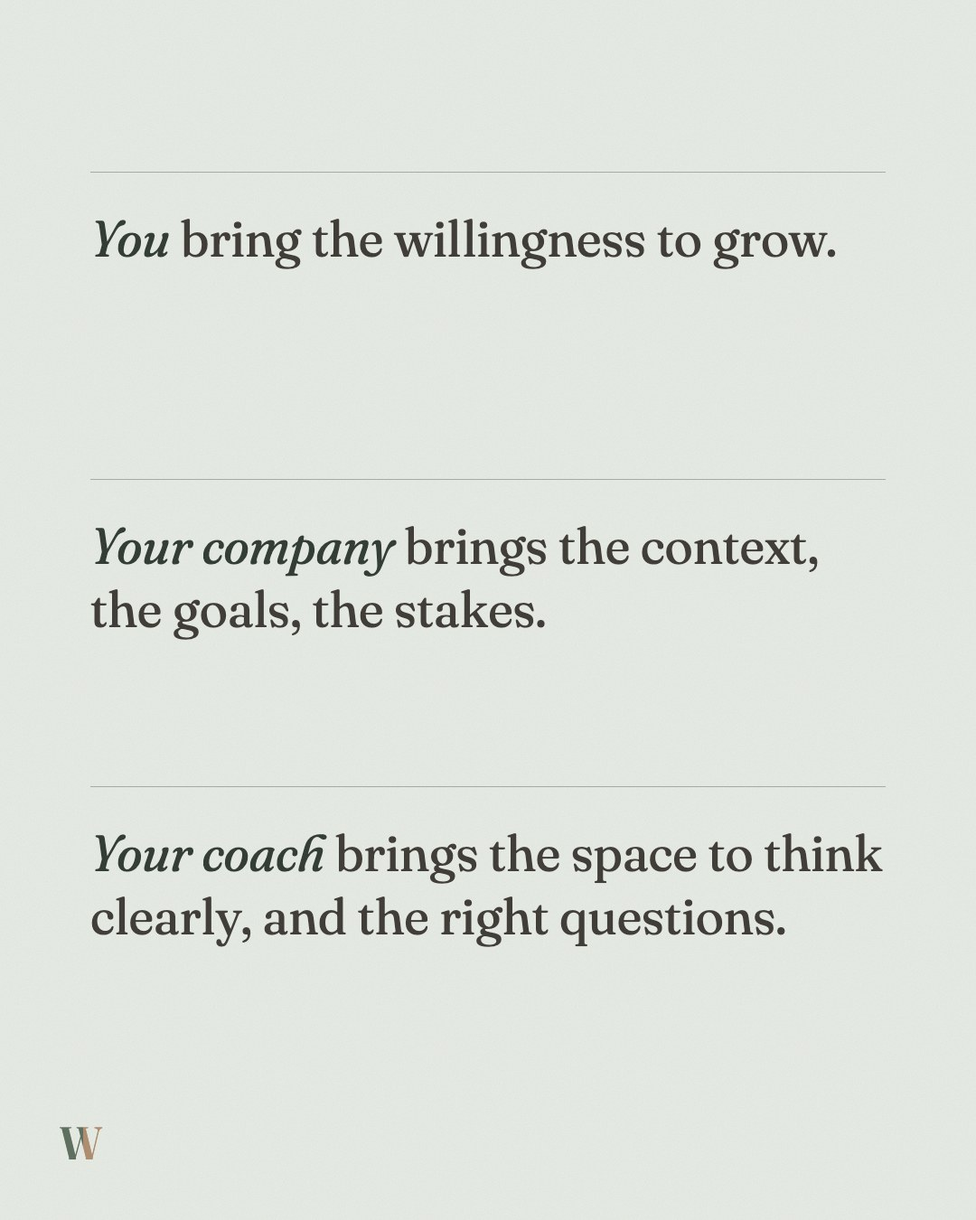
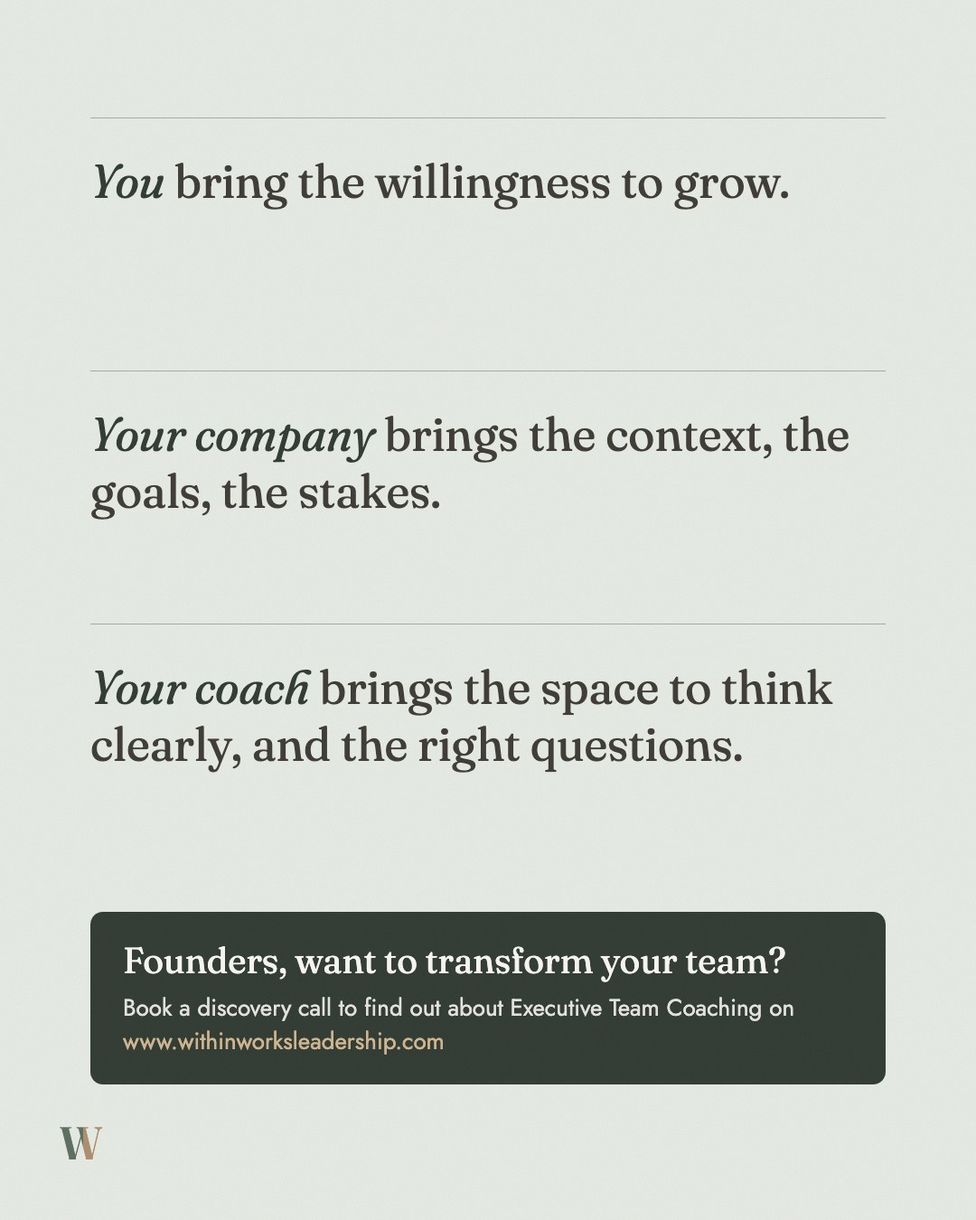
CTAs: founders CTA on 25 Nov, discovery call line added to every upcoming caption without one

Changed region(s): [[0.0917, 0.6844, 0.9167, 0.9022], [0.0917, 0.3422, 0.8861, 0.6533], [0.0917, 0.1244, 0.8556, 0.2178]]

diff --git a/content/index.html b/content/index.html
@@ -84,8 +84,12 @@ Book a discovery call on www.withinworksleadership.com</div><button class="ig-mo
 <div class="ig">
   <div class="ig-head"><img src="../assets/megha.jpg" alt=""><span><b>megha.withinworks</b><small>Dubai</small></span><span class="dots">&middot;&middot;&middot;</span></div>
   <div class="ig-media"><div class="ig-track"><img src="../posts/c1-15a.jpg?v=1794045883" alt="" loading="lazy" width="1080" height="1350"><img src="../posts/c1-15b.jpg?v=1794045884" alt="" loading="lazy" width="1080" height="1350"></div><span class="ig-count">1/2</span><button class="ig-arrow prev" aria-label="Previous" hidden>&#8249;</button><button class="ig-arrow next" aria-label="Next">&#8250;</button></div>
-  <div class="ig-bar"><svg viewBox="0 0 24 24" class=""><path d="M12 21s-7.5-4.6-9.3-9.2C1.4 8.4 3.6 5 7 5c2 0 3.4 1.1 5 3 1.6-1.9 3-3 5-3 3.4 0 5.6 3.4 4.3 6.8C19.5 16.4 12 21 12 21z"/></svg><svg viewBox="0 0 24 24" class=""><path d="M20.5 12a8.5 8.5 0 0 1-12.4 7.5L3.5 21l1.5-4.4A8.5 8.5 0 1 1 20.5 12z"/></svg><svg viewBox="0 0 24 24" class=""><path d="M22 3 9.2 10.1M22 3l-7 18-3.8-8.6L2 9.5 22 3z"/></svg><div class="copyrow"><button class="copy" type="button" title="Copy caption" aria-label="Copy caption"><svg viewBox="0 0 24 24"><rect x="9" y="9" width="11" height="11" rx="2"/><path d="M5 15V6a2 2 0 0 1 2-2h9"/></svg></button><textarea class="cap-src" hidden>People often ask what actually happens in a session. It’s quieter than you’d think.</textarea></div><span class="ig-pips"><i></i><i></i></span><svg viewBox="0 0 24 24" class="save"><path d="M19 21l-7-5.2L5 21V3h14z"/></svg></div>
-  <div class="ig-cap clip"><b>megha.withinworks</b>People often ask what actually happens in a session. It’s quieter than you’d think.</div><button class="ig-more" type="button">more</button>
+  <div class="ig-bar"><svg viewBox="0 0 24 24" class=""><path d="M12 21s-7.5-4.6-9.3-9.2C1.4 8.4 3.6 5 7 5c2 0 3.4 1.1 5 3 1.6-1.9 3-3 5-3 3.4 0 5.6 3.4 4.3 6.8C19.5 16.4 12 21 12 21z"/></svg><svg viewBox="0 0 24 24" class=""><path d="M20.5 12a8.5 8.5 0 0 1-12.4 7.5L3.5 21l1.5-4.4A8.5 8.5 0 1 1 20.5 12z"/></svg><svg viewBox="0 0 24 24" class=""><path d="M22 3 9.2 10.1M22 3l-7 18-3.8-8.6L2 9.5 22 3z"/></svg><div class="copyrow"><button class="copy" type="button" title="Copy caption" aria-label="Copy caption"><svg viewBox="0 0 24 24"><rect x="9" y="9" width="11" height="11" rx="2"/><path d="M5 15V6a2 2 0 0 1 2-2h9"/></svg></button><textarea class="cap-src" hidden>People often ask what actually happens in a session. It’s quieter than you’d think.
+
+Book a complimentary discovery call with me on www.withinworksleadership.com</textarea></div><span class="ig-pips"><i></i><i></i></span><svg viewBox="0 0 24 24" class="save"><path d="M19 21l-7-5.2L5 21V3h14z"/></svg></div>
+  <div class="ig-cap clip"><b>megha.withinworks</b>People often ask what actually happens in a session. It’s quieter than you’d think.
+
+Book a complimentary discovery call with me on www.withinworksleadership.com</div><button class="ig-more" type="button">more</button>
   <button class="cap-edit" type="button" data-a="suggest"><svg viewBox="0 0 24 24" width="13" height="13" fill="none" stroke="currentColor" stroke-width="2" stroke-linecap="round" stroke-linejoin="round"><path d="M4 20h4L19 9l-4-4L4 16z"/><path d="M14 6l4 4"/></svg><span>Edit caption</span></button>
 </div>
 <div class="review post" data-id="c1-15" data-rev="2026-11-07" data-title="Inside a session" style="background:none;border:0;padding:14px 0 0"></div>
@@ -110,10 +114,14 @@ Book a discovery call on www.withinworksleadership.com</div><button class="ig-mo
   <div class="ig-media"><div class="ig-track"><img src="../posts/c1-2.jpg?v=1793814617" alt="" loading="lazy" width="1080" height="1350"></div></div>
   <div class="ig-bar"><svg viewBox="0 0 24 24" class=""><path d="M12 21s-7.5-4.6-9.3-9.2C1.4 8.4 3.6 5 7 5c2 0 3.4 1.1 5 3 1.6-1.9 3-3 5-3 3.4 0 5.6 3.4 4.3 6.8C19.5 16.4 12 21 12 21z"/></svg><svg viewBox="0 0 24 24" class=""><path d="M20.5 12a8.5 8.5 0 0 1-12.4 7.5L3.5 21l1.5-4.4A8.5 8.5 0 1 1 20.5 12z"/></svg><svg viewBox="0 0 24 24" class=""><path d="M22 3 9.2 10.1M22 3l-7 18-3.8-8.6L2 9.5 22 3z"/></svg><div class="copyrow"><button class="copy" type="button" title="Copy caption" aria-label="Copy caption"><svg viewBox="0 0 24 24"><rect x="9" y="9" width="11" height="11" rx="2"/><path d="M5 15V6a2 2 0 0 1 2-2h9"/></svg></button><textarea class="cap-src" hidden>Decision-making isn’t about right or wrong. It’s based on the facts you have today and the future you’re predicting.
 
-The real skill is asking the right questions.</textarea></div><svg viewBox="0 0 24 24" class="save"><path d="M19 21l-7-5.2L5 21V3h14z"/></svg></div>
+The real skill is asking the right questions.
+
+Try Executive &amp; Transformational Coaching today. Book a complimentary discovery call on www.withinworksleadership.com</textarea></div><svg viewBox="0 0 24 24" class="save"><path d="M19 21l-7-5.2L5 21V3h14z"/></svg></div>
   <div class="ig-cap clip"><b>megha.withinworks</b>Decision-making isn’t about right or wrong. It’s based on the facts you have today and the future you’re predicting.
 
-The real skill is asking the right questions.</div><button class="ig-more" type="button">more</button>
+The real skill is asking the right questions.
+
+Try Executive & Transformational Coaching today. Book a complimentary discovery call on www.withinworksleadership.com</div><button class="ig-more" type="button">more</button>
   <button class="cap-edit" type="button" data-a="suggest"><svg viewBox="0 0 24 24" width="13" height="13" fill="none" stroke="currentColor" stroke-width="2" stroke-linecap="round" stroke-linejoin="round"><path d="M4 20h4L19 9l-4-4L4 16z"/><path d="M14 6l4 4"/></svg><span>Edit caption</span></button>
 </div>
 <div class="review post" data-id="c1-2" data-rev="2026-11-07" data-title="Words in the world" style="background:none;border:0;padding:14px 0 0"></div>
@@ -121,13 +129,13 @@ The real skill is asking the right questions.</div><button class="ig-more" type=
 <p class="eyebrow" style="margin-bottom:10px">08 &middot; <span class="when-date">Wed 25 Nov</span></p>
 <div class="ig">
   <div class="ig-head"><img src="../assets/megha.jpg" alt=""><span><b>megha.withinworks</b><small>Dubai</small></span><span class="dots">&middot;&middot;&middot;</span></div>
-  <div class="ig-media"><div class="ig-track"><img src="../posts/c1-12a.jpg?v=1794045287" alt="" loading="lazy" width="1080" height="1350"><img src="../posts/c1-12b.jpg?v=1794045257" alt="" loading="lazy" width="1080" height="1350"></div><span class="ig-count">1/2</span><button class="ig-arrow prev" aria-label="Previous" hidden>&#8249;</button><button class="ig-arrow next" aria-label="Next">&#8250;</button></div>
+  <div class="ig-media"><div class="ig-track"><img src="../posts/c1-12a.jpg?v=1794045287" alt="" loading="lazy" width="1080" height="1350"><img src="../posts/c1-12b.jpg?v=1794839912" alt="" loading="lazy" width="1080" height="1350"></div><span class="ig-count">1/2</span><button class="ig-arrow prev" aria-label="Previous" hidden>&#8249;</button><button class="ig-arrow next" aria-label="Next">&#8250;</button></div>
   <div class="ig-bar"><svg viewBox="0 0 24 24" class=""><path d="M12 21s-7.5-4.6-9.3-9.2C1.4 8.4 3.6 5 7 5c2 0 3.4 1.1 5 3 1.6-1.9 3-3 5-3 3.4 0 5.6 3.4 4.3 6.8C19.5 16.4 12 21 12 21z"/></svg><svg viewBox="0 0 24 24" class=""><path d="M20.5 12a8.5 8.5 0 0 1-12.4 7.5L3.5 21l1.5-4.4A8.5 8.5 0 1 1 20.5 12z"/></svg><svg viewBox="0 0 24 24" class=""><path d="M22 3 9.2 10.1M22 3l-7 18-3.8-8.6L2 9.5 22 3z"/></svg><div class="copyrow"><button class="copy" type="button" title="Copy caption" aria-label="Copy caption"><svg viewBox="0 0 24 24"><rect x="9" y="9" width="11" height="11" rx="2"/><path d="M5 15V6a2 2 0 0 1 2-2h9"/></svg></button><textarea class="cap-src" hidden>Team coaching works best when everyone understands their part in it, including yours.
 
-Enquire about team coaching on www.withinworksleadership.com</textarea></div><span class="ig-pips"><i></i><i></i></span><svg viewBox="0 0 24 24" class="save"><path d="M19 21l-7-5.2L5 21V3h14z"/></svg></div>
+Founders, want to transform your team? Book a discovery call to find out about Executive Team Coaching on www.withinworksleadership.com</textarea></div><span class="ig-pips"><i></i><i></i></span><svg viewBox="0 0 24 24" class="save"><path d="M19 21l-7-5.2L5 21V3h14z"/></svg></div>
   <div class="ig-cap clip"><b>megha.withinworks</b>Team coaching works best when everyone understands their part in it, including yours.
 
-Enquire about team coaching on www.withinworksleadership.com</div><button class="ig-more" type="button">more</button>
+Founders, want to transform your team? Book a discovery call to find out about Executive Team Coaching on www.withinworksleadership.com</div><button class="ig-more" type="button">more</button>
   <button class="cap-edit" type="button" data-a="suggest"><svg viewBox="0 0 24 24" width="13" height="13" fill="none" stroke="currentColor" stroke-width="2" stroke-linecap="round" stroke-linejoin="round"><path d="M4 20h4L19 9l-4-4L4 16z"/><path d="M14 6l4 4"/></svg><span>Edit caption</span></button>
 </div>
 <div class="review post" data-id="c1-12" data-rev="2026-11-10" data-title="Three people in the room" style="background:none;border:0;padding:14px 0 0"></div>
@@ -136,8 +144,12 @@ Enquire about team coaching on www.withinworksleadership.com</div><button class=
 <div class="ig">
   <div class="ig-head"><img src="../assets/megha.jpg" alt=""><span><b>megha.withinworks</b><small>Dubai</small></span><span class="dots">&middot;&middot;&middot;</span></div>
   <div class="ig-media"><div class="ig-track"><img src="../posts/c1-3.jpg?v=1794836992" alt="" loading="lazy" width="1080" height="1350"></div></div>
-  <div class="ig-bar"><svg viewBox="0 0 24 24" class=""><path d="M12 21s-7.5-4.6-9.3-9.2C1.4 8.4 3.6 5 7 5c2 0 3.4 1.1 5 3 1.6-1.9 3-3 5-3 3.4 0 5.6 3.4 4.3 6.8C19.5 16.4 12 21 12 21z"/></svg><svg viewBox="0 0 24 24" class=""><path d="M20.5 12a8.5 8.5 0 0 1-12.4 7.5L3.5 21l1.5-4.4A8.5 8.5 0 1 1 20.5 12z"/></svg><svg viewBox="0 0 24 24" class=""><path d="M22 3 9.2 10.1M22 3l-7 18-3.8-8.6L2 9.5 22 3z"/></svg><div class="copyrow"><button class="copy" type="button" title="Copy caption" aria-label="Copy caption"><svg viewBox="0 0 24 24"><rect x="9" y="9" width="11" height="11" rx="2"/><path d="M5 15V6a2 2 0 0 1 2-2h9"/></svg></button><textarea class="cap-src" hidden>The questions worth sitting with rarely feel comfortable at first. No need to answer here. Just notice what comes up.</textarea></div><svg viewBox="0 0 24 24" class="save"><path d="M19 21l-7-5.2L5 21V3h14z"/></svg></div>
-  <div class="ig-cap clip"><b>megha.withinworks</b>The questions worth sitting with rarely feel comfortable at first. No need to answer here. Just notice what comes up.</div><button class="ig-more" type="button">more</button>
+  <div class="ig-bar"><svg viewBox="0 0 24 24" class=""><path d="M12 21s-7.5-4.6-9.3-9.2C1.4 8.4 3.6 5 7 5c2 0 3.4 1.1 5 3 1.6-1.9 3-3 5-3 3.4 0 5.6 3.4 4.3 6.8C19.5 16.4 12 21 12 21z"/></svg><svg viewBox="0 0 24 24" class=""><path d="M20.5 12a8.5 8.5 0 0 1-12.4 7.5L3.5 21l1.5-4.4A8.5 8.5 0 1 1 20.5 12z"/></svg><svg viewBox="0 0 24 24" class=""><path d="M22 3 9.2 10.1M22 3l-7 18-3.8-8.6L2 9.5 22 3z"/></svg><div class="copyrow"><button class="copy" type="button" title="Copy caption" aria-label="Copy caption"><svg viewBox="0 0 24 24"><rect x="9" y="9" width="11" height="11" rx="2"/><path d="M5 15V6a2 2 0 0 1 2-2h9"/></svg></button><textarea class="cap-src" hidden>The questions worth sitting with rarely feel comfortable at first. No need to answer here. Just notice what comes up.
+
+Book a complimentary discovery call with me on www.withinworksleadership.com</textarea></div><svg viewBox="0 0 24 24" class="save"><path d="M19 21l-7-5.2L5 21V3h14z"/></svg></div>
+  <div class="ig-cap clip"><b>megha.withinworks</b>The questions worth sitting with rarely feel comfortable at first. No need to answer here. Just notice what comes up.
+
+Book a complimentary discovery call with me on www.withinworksleadership.com</div><button class="ig-more" type="button">more</button>
   <button class="cap-edit" type="button" data-a="suggest"><svg viewBox="0 0 24 24" width="13" height="13" fill="none" stroke="currentColor" stroke-width="2" stroke-linecap="round" stroke-linejoin="round"><path d="M4 20h4L19 9l-4-4L4 16z"/><path d="M14 6l4 4"/></svg><span>Edit caption</span></button>
 </div>
 <div class="review post" data-id="c1-3" data-rev="2026-11-16" data-title="The Within Question" style="background:none;border:0;padding:14px 0 0"></div>
@@ -148,10 +160,14 @@ Enquire about team coaching on www.withinworksleadership.com</div><button class=
   <div class="ig-media"><div class="ig-track"><img src="../posts/c1-4.jpg?v=1793814574" alt="" loading="lazy" width="1080" height="1350"></div></div>
   <div class="ig-bar"><svg viewBox="0 0 24 24" class=""><path d="M12 21s-7.5-4.6-9.3-9.2C1.4 8.4 3.6 5 7 5c2 0 3.4 1.1 5 3 1.6-1.9 3-3 5-3 3.4 0 5.6 3.4 4.3 6.8C19.5 16.4 12 21 12 21z"/></svg><svg viewBox="0 0 24 24" class=""><path d="M20.5 12a8.5 8.5 0 0 1-12.4 7.5L3.5 21l1.5-4.4A8.5 8.5 0 1 1 20.5 12z"/></svg><svg viewBox="0 0 24 24" class=""><path d="M22 3 9.2 10.1M22 3l-7 18-3.8-8.6L2 9.5 22 3z"/></svg><div class="copyrow"><button class="copy" type="button" title="Copy caption" aria-label="Copy caption"><svg viewBox="0 0 24 24"><rect x="9" y="9" width="11" height="11" rx="2"/><path d="M5 15V6a2 2 0 0 1 2-2h9"/></svg></button><textarea class="cap-src" hidden>As a leader, for years my instinct was to solve. Coaching asked me to do the opposite: ask, then wait. It felt wrong at first.
 
-But people rarely act on an answer someone hands them. They act on the one they find themselves.</textarea></div><svg viewBox="0 0 24 24" class="save"><path d="M19 21l-7-5.2L5 21V3h14z"/></svg></div>
+But people rarely act on an answer someone hands them. They act on the one they find themselves.
+
+Try Executive &amp; Transformational Coaching today. Book a complimentary discovery call on www.withinworksleadership.com</textarea></div><svg viewBox="0 0 24 24" class="save"><path d="M19 21l-7-5.2L5 21V3h14z"/></svg></div>
   <div class="ig-cap clip"><b>megha.withinworks</b>As a leader, for years my instinct was to solve. Coaching asked me to do the opposite: ask, then wait. It felt wrong at first.
 
-But people rarely act on an answer someone hands them. They act on the one they find themselves.</div><button class="ig-more" type="button">more</button>
+But people rarely act on an answer someone hands them. They act on the one they find themselves.
+
+Try Executive & Transformational Coaching today. Book a complimentary discovery call on www.withinworksleadership.com</div><button class="ig-more" type="button">more</button>
   <button class="cap-edit" type="button" data-a="suggest"><svg viewBox="0 0 24 24" width="13" height="13" fill="none" stroke="currentColor" stroke-width="2" stroke-linecap="round" stroke-linejoin="round"><path d="M4 20h4L19 9l-4-4L4 16z"/><path d="M14 6l4 4"/></svg><span>Edit caption</span></button>
 </div>
 <div class="review post" data-id="c1-4" data-rev="2026-11-07" data-title="Leadership, unlearned" style="background:none;border:0;padding:14px 0 0"></div>
@@ -160,8 +176,12 @@ But people rarely act on an answer someone hands them. They act on the one they 
 <div class="ig">
   <div class="ig-head"><img src="../assets/megha.jpg" alt=""><span><b>megha.withinworks</b><small>Dubai</small></span><span class="dots">&middot;&middot;&middot;</span></div>
   <div class="ig-media"><div class="ig-track"><img src="../posts/c1-16.jpg?v=1794045261" alt="" loading="lazy" width="1080" height="1350"></div></div>
-  <div class="ig-bar"><svg viewBox="0 0 24 24" class=""><path d="M12 21s-7.5-4.6-9.3-9.2C1.4 8.4 3.6 5 7 5c2 0 3.4 1.1 5 3 1.6-1.9 3-3 5-3 3.4 0 5.6 3.4 4.3 6.8C19.5 16.4 12 21 12 21z"/></svg><svg viewBox="0 0 24 24" class=""><path d="M20.5 12a8.5 8.5 0 0 1-12.4 7.5L3.5 21l1.5-4.4A8.5 8.5 0 1 1 20.5 12z"/></svg><svg viewBox="0 0 24 24" class=""><path d="M22 3 9.2 10.1M22 3l-7 18-3.8-8.6L2 9.5 22 3z"/></svg><div class="copyrow"><button class="copy" type="button" title="Copy caption" aria-label="Copy caption"><svg viewBox="0 0 24 24"><rect x="9" y="9" width="11" height="11" rx="2"/><path d="M5 15V6a2 2 0 0 1 2-2h9"/></svg></button><textarea class="cap-src" hidden>For everyone starting again. What did you bring with you, and what did you leave behind?</textarea></div><svg viewBox="0 0 24 24" class="save"><path d="M19 21l-7-5.2L5 21V3h14z"/></svg></div>
-  <div class="ig-cap clip"><b>megha.withinworks</b>For everyone starting again. What did you bring with you, and what did you leave behind?</div><button class="ig-more" type="button">more</button>
+  <div class="ig-bar"><svg viewBox="0 0 24 24" class=""><path d="M12 21s-7.5-4.6-9.3-9.2C1.4 8.4 3.6 5 7 5c2 0 3.4 1.1 5 3 1.6-1.9 3-3 5-3 3.4 0 5.6 3.4 4.3 6.8C19.5 16.4 12 21 12 21z"/></svg><svg viewBox="0 0 24 24" class=""><path d="M20.5 12a8.5 8.5 0 0 1-12.4 7.5L3.5 21l1.5-4.4A8.5 8.5 0 1 1 20.5 12z"/></svg><svg viewBox="0 0 24 24" class=""><path d="M22 3 9.2 10.1M22 3l-7 18-3.8-8.6L2 9.5 22 3z"/></svg><div class="copyrow"><button class="copy" type="button" title="Copy caption" aria-label="Copy caption"><svg viewBox="0 0 24 24"><rect x="9" y="9" width="11" height="11" rx="2"/><path d="M5 15V6a2 2 0 0 1 2-2h9"/></svg></button><textarea class="cap-src" hidden>For everyone starting again. What did you bring with you, and what did you leave behind?
+
+Book a complimentary discovery call with me on www.withinworksleadership.com</textarea></div><svg viewBox="0 0 24 24" class="save"><path d="M19 21l-7-5.2L5 21V3h14z"/></svg></div>
+  <div class="ig-cap clip"><b>megha.withinworks</b>For everyone starting again. What did you bring with you, and what did you leave behind?
+
+Book a complimentary discovery call with me on www.withinworksleadership.com</div><button class="ig-more" type="button">more</button>
   <button class="cap-edit" type="button" data-a="suggest"><svg viewBox="0 0 24 24" width="13" height="13" fill="none" stroke="currentColor" stroke-width="2" stroke-linecap="round" stroke-linejoin="round"><path d="M4 20h4L19 9l-4-4L4 16z"/><path d="M14 6l4 4"/></svg><span>Edit caption</span></button>
 </div>
 <div class="review post" data-id="c1-16" data-rev="2026-11-07" data-title="Turning points 01" style="background:none;border:0;padding:14px 0 0"></div>
@@ -170,8 +190,12 @@ But people rarely act on an answer someone hands them. They act on the one they 
 <div class="ig">
   <div class="ig-head"><img src="../assets/megha.jpg" alt=""><span><b>megha.withinworks</b><small>Dubai</small></span><span class="dots">&middot;&middot;&middot;</span></div>
   <div class="ig-media"><div class="ig-track"><img src="../posts/c1-7a.jpg?v=1793814575" alt="" loading="lazy" width="1080" height="1350"><img src="../posts/c1-7b.jpg?v=1793814576" alt="" loading="lazy" width="1080" height="1350"></div><span class="ig-count">1/2</span><button class="ig-arrow prev" aria-label="Previous" hidden>&#8249;</button><button class="ig-arrow next" aria-label="Next">&#8250;</button></div>
-  <div class="ig-bar"><svg viewBox="0 0 24 24" class=""><path d="M12 21s-7.5-4.6-9.3-9.2C1.4 8.4 3.6 5 7 5c2 0 3.4 1.1 5 3 1.6-1.9 3-3 5-3 3.4 0 5.6 3.4 4.3 6.8C19.5 16.4 12 21 12 21z"/></svg><svg viewBox="0 0 24 24" class=""><path d="M20.5 12a8.5 8.5 0 0 1-12.4 7.5L3.5 21l1.5-4.4A8.5 8.5 0 1 1 20.5 12z"/></svg><svg viewBox="0 0 24 24" class=""><path d="M22 3 9.2 10.1M22 3l-7 18-3.8-8.6L2 9.5 22 3z"/></svg><div class="copyrow"><button class="copy" type="button" title="Copy caption" aria-label="Copy caption"><svg viewBox="0 0 24 24"><rect x="9" y="9" width="11" height="11" rx="2"/><path d="M5 15V6a2 2 0 0 1 2-2h9"/></svg></button><textarea class="cap-src" hidden>Some words tell me more than the sentence they’re in. This week, notice how often you say this one.</textarea></div><span class="ig-pips"><i></i><i></i></span><svg viewBox="0 0 24 24" class="save"><path d="M19 21l-7-5.2L5 21V3h14z"/></svg></div>
-  <div class="ig-cap clip"><b>megha.withinworks</b>Some words tell me more than the sentence they’re in. This week, notice how often you say this one.</div><button class="ig-more" type="button">more</button>
+  <div class="ig-bar"><svg viewBox="0 0 24 24" class=""><path d="M12 21s-7.5-4.6-9.3-9.2C1.4 8.4 3.6 5 7 5c2 0 3.4 1.1 5 3 1.6-1.9 3-3 5-3 3.4 0 5.6 3.4 4.3 6.8C19.5 16.4 12 21 12 21z"/></svg><svg viewBox="0 0 24 24" class=""><path d="M20.5 12a8.5 8.5 0 0 1-12.4 7.5L3.5 21l1.5-4.4A8.5 8.5 0 1 1 20.5 12z"/></svg><svg viewBox="0 0 24 24" class=""><path d="M22 3 9.2 10.1M22 3l-7 18-3.8-8.6L2 9.5 22 3z"/></svg><div class="copyrow"><button class="copy" type="button" title="Copy caption" aria-label="Copy caption"><svg viewBox="0 0 24 24"><rect x="9" y="9" width="11" height="11" rx="2"/><path d="M5 15V6a2 2 0 0 1 2-2h9"/></svg></button><textarea class="cap-src" hidden>Some words tell me more than the sentence they’re in. This week, notice how often you say this one.
+
+Try Executive &amp; Transformational Coaching today. Book a complimentary discovery call on www.withinworksleadership.com</textarea></div><span class="ig-pips"><i></i><i></i></span><svg viewBox="0 0 24 24" class="save"><path d="M19 21l-7-5.2L5 21V3h14z"/></svg></div>
+  <div class="ig-cap clip"><b>megha.withinworks</b>Some words tell me more than the sentence they’re in. This week, notice how often you say this one.
+
+Try Executive & Transformational Coaching today. Book a complimentary discovery call on www.withinworksleadership.com</div><button class="ig-more" type="button">more</button>
   <button class="cap-edit" type="button" data-a="suggest"><svg viewBox="0 0 24 24" width="13" height="13" fill="none" stroke="currentColor" stroke-width="2" stroke-linecap="round" stroke-linejoin="round"><path d="M4 20h4L19 9l-4-4L4 16z"/><path d="M14 6l4 4"/></svg><span>Edit caption</span></button>
 </div>
 <div class="review post" data-id="c1-7" data-rev="" data-title="What a coach hears" style="background:none;border:0;padding:14px 0 0"></div>
@@ -180,8 +204,12 @@ But people rarely act on an answer someone hands them. They act on the one they 
 <div class="ig">
   <div class="ig-head"><img src="../assets/megha.jpg" alt=""><span><b>megha.withinworks</b><small>Dubai</small></span><span class="dots">&middot;&middot;&middot;</span></div>
   <div class="ig-media"><div class="ig-track"><img src="../posts/c1-8a.jpg?v=1793814576" alt="" loading="lazy" width="1080" height="1350"><img src="../posts/c1-8b.jpg?v=1793814577" alt="" loading="lazy" width="1080" height="1350"></div><span class="ig-count">1/2</span><button class="ig-arrow prev" aria-label="Previous" hidden>&#8249;</button><button class="ig-arrow next" aria-label="Next">&#8250;</button></div>
-  <div class="ig-bar"><svg viewBox="0 0 24 24" class=""><path d="M12 21s-7.5-4.6-9.3-9.2C1.4 8.4 3.6 5 7 5c2 0 3.4 1.1 5 3 1.6-1.9 3-3 5-3 3.4 0 5.6 3.4 4.3 6.8C19.5 16.4 12 21 12 21z"/></svg><svg viewBox="0 0 24 24" class=""><path d="M20.5 12a8.5 8.5 0 0 1-12.4 7.5L3.5 21l1.5-4.4A8.5 8.5 0 1 1 20.5 12z"/></svg><svg viewBox="0 0 24 24" class=""><path d="M22 3 9.2 10.1M22 3l-7 18-3.8-8.6L2 9.5 22 3z"/></svg><div class="copyrow"><button class="copy" type="button" title="Copy caption" aria-label="Copy caption"><svg viewBox="0 0 24 24"><rect x="9" y="9" width="11" height="11" rx="2"/><path d="M5 15V6a2 2 0 0 1 2-2h9"/></svg></button><textarea class="cap-src" hidden>On my table this month. The line that stopped me is on the next slide.</textarea></div><span class="ig-pips"><i></i><i></i></span><svg viewBox="0 0 24 24" class="save"><path d="M19 21l-7-5.2L5 21V3h14z"/></svg></div>
-  <div class="ig-cap clip"><b>megha.withinworks</b>On my table this month. The line that stopped me is on the next slide.</div><button class="ig-more" type="button">more</button>
+  <div class="ig-bar"><svg viewBox="0 0 24 24" class=""><path d="M12 21s-7.5-4.6-9.3-9.2C1.4 8.4 3.6 5 7 5c2 0 3.4 1.1 5 3 1.6-1.9 3-3 5-3 3.4 0 5.6 3.4 4.3 6.8C19.5 16.4 12 21 12 21z"/></svg><svg viewBox="0 0 24 24" class=""><path d="M20.5 12a8.5 8.5 0 0 1-12.4 7.5L3.5 21l1.5-4.4A8.5 8.5 0 1 1 20.5 12z"/></svg><svg viewBox="0 0 24 24" class=""><path d="M22 3 9.2 10.1M22 3l-7 18-3.8-8.6L2 9.5 22 3z"/></svg><div class="copyrow"><button class="copy" type="button" title="Copy caption" aria-label="Copy caption"><svg viewBox="0 0 24 24"><rect x="9" y="9" width="11" height="11" rx="2"/><path d="M5 15V6a2 2 0 0 1 2-2h9"/></svg></button><textarea class="cap-src" hidden>On my table this month. The line that stopped me is on the next slide.
+
+Book a complimentary discovery call with me on www.withinworksleadership.com</textarea></div><span class="ig-pips"><i></i><i></i></span><svg viewBox="0 0 24 24" class="save"><path d="M19 21l-7-5.2L5 21V3h14z"/></svg></div>
+  <div class="ig-cap clip"><b>megha.withinworks</b>On my table this month. The line that stopped me is on the next slide.
+
+Book a complimentary discovery call with me on www.withinworksleadership.com</div><button class="ig-more" type="button">more</button>
   <button class="cap-edit" type="button" data-a="suggest"><svg viewBox="0 0 24 24" width="13" height="13" fill="none" stroke="currentColor" stroke-width="2" stroke-linecap="round" stroke-linejoin="round"><path d="M4 20h4L19 9l-4-4L4 16z"/><path d="M14 6l4 4"/></svg><span>Edit caption</span></button>
 </div>
 <div class="review post" data-id="c1-8" data-rev="" data-title="A book on my table" style="background:none;border:0;padding:14px 0 0"></div>
@@ -218,8 +246,12 @@ Book a discovery call on www.withinworksleadership.com</div><button class="ig-mo
 <div class="ig">
   <div class="ig-head"><img src="../assets/megha.jpg" alt=""><span><b>megha.withinworks</b><small>Dubai</small></span><span class="dots">&middot;&middot;&middot;</span></div>
   <div class="ig-media"><div class="ig-track"><img src="../posts/c1-10.jpg?v=1793814609" alt="" loading="lazy" width="1080" height="1350"></div></div>
-  <div class="ig-bar"><svg viewBox="0 0 24 24" class=""><path d="M12 21s-7.5-4.6-9.3-9.2C1.4 8.4 3.6 5 7 5c2 0 3.4 1.1 5 3 1.6-1.9 3-3 5-3 3.4 0 5.6 3.4 4.3 6.8C19.5 16.4 12 21 12 21z"/></svg><svg viewBox="0 0 24 24" class=""><path d="M20.5 12a8.5 8.5 0 0 1-12.4 7.5L3.5 21l1.5-4.4A8.5 8.5 0 1 1 20.5 12z"/></svg><svg viewBox="0 0 24 24" class=""><path d="M22 3 9.2 10.1M22 3l-7 18-3.8-8.6L2 9.5 22 3z"/></svg><div class="copyrow"><button class="copy" type="button" title="Copy caption" aria-label="Copy caption"><svg viewBox="0 0 24 24"><rect x="9" y="9" width="11" height="11" rx="2"/><path d="M5 15V6a2 2 0 0 1 2-2h9"/></svg></button><textarea class="cap-src" hidden>Spirituality and mindfulness came long before coaching. They taught me the pause.</textarea></div><svg viewBox="0 0 24 24" class="save"><path d="M19 21l-7-5.2L5 21V3h14z"/></svg></div>
-  <div class="ig-cap clip"><b>megha.withinworks</b>Spirituality and mindfulness came long before coaching. They taught me the pause.</div><button class="ig-more" type="button">more</button>
+  <div class="ig-bar"><svg viewBox="0 0 24 24" class=""><path d="M12 21s-7.5-4.6-9.3-9.2C1.4 8.4 3.6 5 7 5c2 0 3.4 1.1 5 3 1.6-1.9 3-3 5-3 3.4 0 5.6 3.4 4.3 6.8C19.5 16.4 12 21 12 21z"/></svg><svg viewBox="0 0 24 24" class=""><path d="M20.5 12a8.5 8.5 0 0 1-12.4 7.5L3.5 21l1.5-4.4A8.5 8.5 0 1 1 20.5 12z"/></svg><svg viewBox="0 0 24 24" class=""><path d="M22 3 9.2 10.1M22 3l-7 18-3.8-8.6L2 9.5 22 3z"/></svg><div class="copyrow"><button class="copy" type="button" title="Copy caption" aria-label="Copy caption"><svg viewBox="0 0 24 24"><rect x="9" y="9" width="11" height="11" rx="2"/><path d="M5 15V6a2 2 0 0 1 2-2h9"/></svg></button><textarea class="cap-src" hidden>Spirituality and mindfulness came long before coaching. They taught me the pause.
+
+Try Executive &amp; Transformational Coaching today. Book a complimentary discovery call on www.withinworksleadership.com</textarea></div><svg viewBox="0 0 24 24" class="save"><path d="M19 21l-7-5.2L5 21V3h14z"/></svg></div>
+  <div class="ig-cap clip"><b>megha.withinworks</b>Spirituality and mindfulness came long before coaching. They taught me the pause.
+
+Try Executive & Transformational Coaching today. Book a complimentary discovery call on www.withinworksleadership.com</div><button class="ig-more" type="button">more</button>
   <button class="cap-edit" type="button" data-a="suggest"><svg viewBox="0 0 24 24" width="13" height="13" fill="none" stroke="currentColor" stroke-width="2" stroke-linecap="round" stroke-linejoin="round"><path d="M4 20h4L19 9l-4-4L4 16z"/><path d="M14 6l4 4"/></svg><span>Edit caption</span></button>
 </div>
 <div class="review post" data-id="c1-10" data-rev="2026-11-04" data-title="Notes from the mat" style="background:none;border:0;padding:14px 0 0"></div>

diff --git a/working-material.html b/working-material.html
@@ -22,11 +22,11 @@
 <section class="page-hero"><div class="shell"><p class="eyebrow">Working material</p><h1>In the <em>session</em></h1><p class="lede">The sheets Megha uses with clients, in the order she uses them.</p></div></section><section><div class="shell"><div class="card tint"><h3>How the sessions use them</h3>
 <p>The work starts with the <b>Wheel of Life</b> to see where you are, then the <b>Values Sheet</b> to name what matters, then the
 <b>Saboteurs Worksheet</b>, where your top three values show what each inner voice costs you. The client leads; curiosity comes
-before advice, and every session ends with one thing you will notice or do that week.</p></div><div class="card" style="padding:0;overflow:hidden;margin-top:24px"><img src="working-material/values.jpg?v=1794839645" alt="Values Sheet" style="width:100%;display:block;border-bottom:1px solid #eee">
+before advice, and every session ends with one thing you will notice or do that week.</p></div><div class="card" style="padding:0;overflow:hidden;margin-top:24px"><img src="working-material/values.jpg?v=1794839920" alt="Values Sheet" style="width:100%;display:block;border-bottom:1px solid #eee">
 <div style="padding:22px 26px"><p class="eyebrow">Print, A4</p><h3>Values Sheet</h3><p>Circle the words that pull you, narrow to five, then write your top three in your own words with a moment you lived each one. Ends on: which value am I honouring least right now?</p>
-<p style="margin-top:12px"><a class="btn" href="working-material/values.pdf" target="_blank" rel="noopener">Open the PDF</a></p></div></div><div class="card" style="padding:0;overflow:hidden;margin-top:24px"><img src="working-material/saboteurs.jpg?v=1794839645" alt="Saboteurs Worksheet" style="width:100%;display:block;border-bottom:1px solid #eee">
+<p style="margin-top:12px"><a class="btn" href="working-material/values.pdf" target="_blank" rel="noopener">Open the PDF</a></p></div></div><div class="card" style="padding:0;overflow:hidden;margin-top:24px"><img src="working-material/saboteurs.jpg?v=1794839920" alt="Saboteurs Worksheet" style="width:100%;display:block;border-bottom:1px solid #eee">
 <div style="padding:22px 26px"><p class="eyebrow">Print, A4</p><h3>Saboteurs Worksheet</h3><p>The old strategies that once kept you safe and now steer without permission: Controller, Pleaser, Hyper-Achiever, Restless, or your own. For each, when it shows up, what it says, what it costs and which value it sacrifices. Then: meeting your Inner Leader.</p>
-<p style="margin-top:12px"><a class="btn" href="working-material/saboteurs.pdf" target="_blank" rel="noopener">Open the PDF</a></p></div></div><div class="card" style="padding:0;overflow:hidden;margin-top:24px"><img src="working-material/wheel.jpg?v=1794839645" alt="Wheel of Life" style="width:100%;display:block;border-bottom:1px solid #eee">
+<p style="margin-top:12px"><a class="btn" href="working-material/saboteurs.pdf" target="_blank" rel="noopener">Open the PDF</a></p></div></div><div class="card" style="padding:0;overflow:hidden;margin-top:24px"><img src="working-material/wheel.jpg?v=1794839920" alt="Wheel of Life" style="width:100%;display:block;border-bottom:1px solid #eee">
 <div style="padding:22px 26px"><p class="eyebrow">Fill in on screen</p><h3>Wheel of Life</h3><p>Eight areas of life, chosen by you, each rated 1 to 10 for how satisfied you feel now. Then: which area surprised you, where is the biggest gap, and which one point would change the most.</p>
 <p style="margin-top:12px"><a class="btn" href="working-material/wheel.pdf" target="_blank" rel="noopener">Open the PDF</a></p></div></div></div></section>
 <div class="shell"><nav class="doors"><a href="./">Brain</a><a href="meetings.html">Meetings</a><a href="content/">Instagram</a><a href="linkedin/">LinkedIn</a><a href="stories/">Stories</a><a href="reel-cuts/">Reels</a><a href="printables.html">Printables</a><a href="working-material.html" class="here">Working material</a><a href="strategy.html">Strategy</a><a href="megha.html">Megha</a><a href="voice.html">Voice</a><a href="audience.html">Audience</a><a href="brand.html">Brand</a><a href="offers.html">Offers</a><a href="tech.html">Tech</a><a href="photos.html">Photos</a><a href="research.html">Research</a><a href="ideas.html">Ideas</a></nav></div>

diff --git a/printables-folders.html b/printables-folders.html
@@ -32,10 +32,10 @@
 .pf .n{display:inline-block;margin:12px 6px 0;font-size:.95rem;letter-spacing:.08em;text-transform:uppercase;color:#B4654A}
 .crumb{font-size:1.05rem;margin-bottom:6px}.crumb a{color:#B4654A;text-decoration:none}
 </style><p class="crumb"><a href="printables.html">&larr; All printables</a></p><article class="post-wrap" id="pf-a"><p class="eyebrow" style="margin-bottom:10px">Folder A · The path</p>
-<div class="card" style="padding:0;overflow:hidden"><img src="printables/fm-a.jpg?v=1794839645" alt="" style="width:100%;display:block"><img src="printables/fi-a.jpg?v=1794839645" alt="" style="width:100%;display:block">
+<div class="card" style="padding:0;overflow:hidden"><img src="printables/fm-a.jpg?v=1794839920" alt="" style="width:100%;display:block"><img src="printables/fi-a.jpg?v=1794839920" alt="" style="width:100%;display:block">
 <div style="padding:22px 26px"><p>Forest linen. A die-cut S-curve flap opens onto a pearl-green layer, the W and name in gold foil. The back carries her words, the Instagram and website QR codes and her contact details. Inside: ivory linen, with a pocket for her card and session sheets.</p><div style="margin-top:18px;padding-top:16px;border-top:1px solid rgba(0,0,0,.08)"><p class="eyebrow" style="margin-bottom:4px">Print files</p><a class="btn" href="printables/print/WithinWorks%20Folder%20A%20-%20The%20path%20-%20print%20pack%20%28CMYK%29.pdf" download style="margin:8px 8px 0 0">&darr; Print pack</a></div></div></div>
 <div class="review post" data-id="pf-a" data-rev="" data-title="Folder A · The path" style="background:none;border:0;padding:14px 0 0"></div></article><article class="post-wrap" id="pf-b"><p class="eyebrow" style="margin-bottom:10px">Folder B · The door</p>
-<div class="card" style="padding:0;overflow:hidden"><img src="printables/fm-c.jpg?v=1794839645" alt="" style="width:100%;display:block"><img src="printables/fi-c.jpg?v=1794839645" alt="" style="width:100%;display:block">
+<div class="card" style="padding:0;overflow:hidden"><img src="printables/fm-c.jpg?v=1794839920" alt="" style="width:100%;display:block"><img src="printables/fi-c.jpg?v=1794839920" alt="" style="width:100%;display:block">
 <div style="padding:22px 26px"><p>Ivory linen with an arched forest door and a brass nameplate: “What are you looking for outside?” Below the door: “The answer lies within.” The back and inside follow the same system, in the light version.</p><div style="margin-top:18px;padding-top:16px;border-top:1px solid rgba(0,0,0,.08)"><p class="eyebrow" style="margin-bottom:4px">Print files</p><a class="btn" href="printables/print/WithinWorks%20Folder%20B%20-%20The%20door%20-%20print%20pack%20%28CMYK%29.pdf" download style="margin:8px 8px 0 0">&darr; Print pack</a></div></div></div>
 <div class="review post" data-id="pf-b" data-rev="" data-title="Folder B · The door" style="background:none;border:0;padding:14px 0 0"></div></article></div></section>
 <div class="shell"><nav class="doors"><a href="./">Brain</a><a href="meetings.html">Meetings</a><a href="content/">Instagram</a><a href="linkedin/">LinkedIn</a><a href="stories/">Stories</a><a href="reel-cuts/">Reels</a><a href="printables.html" class="here">Printables</a><a href="working-material.html">Working material</a><a href="strategy.html">Strategy</a><a href="megha.html">Megha</a><a href="voice.html">Voice</a><a href="audience.html">Audience</a><a href="brand.html">Brand</a><a href="offers.html">Offers</a><a href="tech.html">Tech</a><a href="photos.html">Photos</a><a href="research.html">Research</a><a href="ideas.html">Ideas</a></nav></div>

diff --git a/printables-journal.html b/printables-journal.html
@@ -32,7 +32,7 @@
 .pf .n{display:inline-block;margin:12px 6px 0;font-size:.95rem;letter-spacing:.08em;text-transform:uppercase;color:#B4654A}
 .crumb{font-size:1.05rem;margin-bottom:6px}.crumb a{color:#B4654A;text-decoration:none}
 </style><p class="crumb"><a href="printables.html">&larr; All printables</a></p><article class="post-wrap" id="pj-a"><p class="eyebrow" style="margin-bottom:10px">Notes from Within</p>
-<div class="card" style="padding:0;overflow:hidden"><img src="printables/jn-sheet.jpg?v=1794839645" alt="" style="width:100%;display:block">
+<div class="card" style="padding:0;overflow:hidden"><img src="printables/jn-sheet.jpg?v=1794839920" alt="" style="width:100%;display:block">
 <div style="padding:22px 26px"><p>A 48-page journal, 130 x 210 mm. Five chapters, from where I am to my next step, with a note and signature from Megha up front and her details on the back. Every page at a glance below; open the PDF to read them.</p><p style="margin-top:12px"><a class="btn" href="printables/notes-from-within.pdf" target="_blank" rel="noopener">Open the full PDF</a></p><div style="margin-top:18px;padding-top:16px;border-top:1px solid rgba(0,0,0,.08)"><p class="eyebrow" style="margin-bottom:4px">Print files</p><a class="btn" href="printables/print/Notes%20from%20Within%20-%20print%20ready.pdf" download style="margin:8px 8px 0 0">&darr; Print ready</a></div></div></div>
 <div class="review post" data-id="pj-a" data-rev="" data-title="Notes from Within" style="background:none;border:0;padding:14px 0 0"></div></article></div></section>
 <div class="shell"><nav class="doors"><a href="./">Brain</a><a href="meetings.html">Meetings</a><a href="content/">Instagram</a><a href="linkedin/">LinkedIn</a><a href="stories/">Stories</a><a href="reel-cuts/">Reels</a><a href="printables.html" class="here">Printables</a><a href="working-material.html">Working material</a><a href="strategy.html">Strategy</a><a href="megha.html">Megha</a><a href="voice.html">Voice</a><a href="audience.html">Audience</a><a href="brand.html">Brand</a><a href="offers.html">Offers</a><a href="tech.html">Tech</a><a href="photos.html">Photos</a><a href="research.html">Research</a><a href="ideas.html">Ideas</a></nav></div>

diff --git a/printables.html b/printables.html
@@ -32,9 +32,9 @@
 .pf .n{display:inline-block;margin:12px 6px 0;font-size:.95rem;letter-spacing:.08em;text-transform:uppercase;color:#B4654A}
 .crumb{font-size:1.05rem;margin-bottom:6px}.crumb a{color:#B4654A;text-decoration:none}
 </style><div class="pf-grid"><a class="pf" href="printables-folders.html"><div class="pf-body">
-<div class="pf-thumb"><img src="printables/fm-a.jpg?v=1794839645" alt=""></div>
+<div class="pf-thumb"><img src="printables/fm-a.jpg?v=1794839920" alt=""></div>
 <h3>Presentation folders</h3><p>Two options for client meetings. Choose one.</p><span class="n">2 files &rarr;</span></div></a><a class="pf" href="printables-journal.html"><div class="pf-body">
-<div class="pf-thumb"><img src="printables/jn-sheet.jpg?v=1794839645" alt=""></div>
+<div class="pf-thumb"><img src="printables/jn-sheet.jpg?v=1794839920" alt=""></div>
 <h3>Journal</h3><p>Notes from Within, a journal to give clients.</p><span class="n">1 file &rarr;</span></div></a></div></div></section>
 <div class="shell"><nav class="doors"><a href="./">Brain</a><a href="meetings.html">Meetings</a><a href="content/">Instagram</a><a href="linkedin/">LinkedIn</a><a href="stories/">Stories</a><a href="reel-cuts/">Reels</a><a href="printables.html" class="here">Printables</a><a href="working-material.html">Working material</a><a href="strategy.html">Strategy</a><a href="megha.html">Megha</a><a href="voice.html">Voice</a><a href="audience.html">Audience</a><a href="brand.html">Brand</a><a href="offers.html">Offers</a><a href="tech.html">Tech</a><a href="photos.html">Photos</a><a href="research.html">Research</a><a href="ideas.html">Ideas</a></nav></div>
 <footer><div class="shell">WithinWorks Leadership &middot; Kept by Mehr Patni &middot; Private working page</div></footer>
